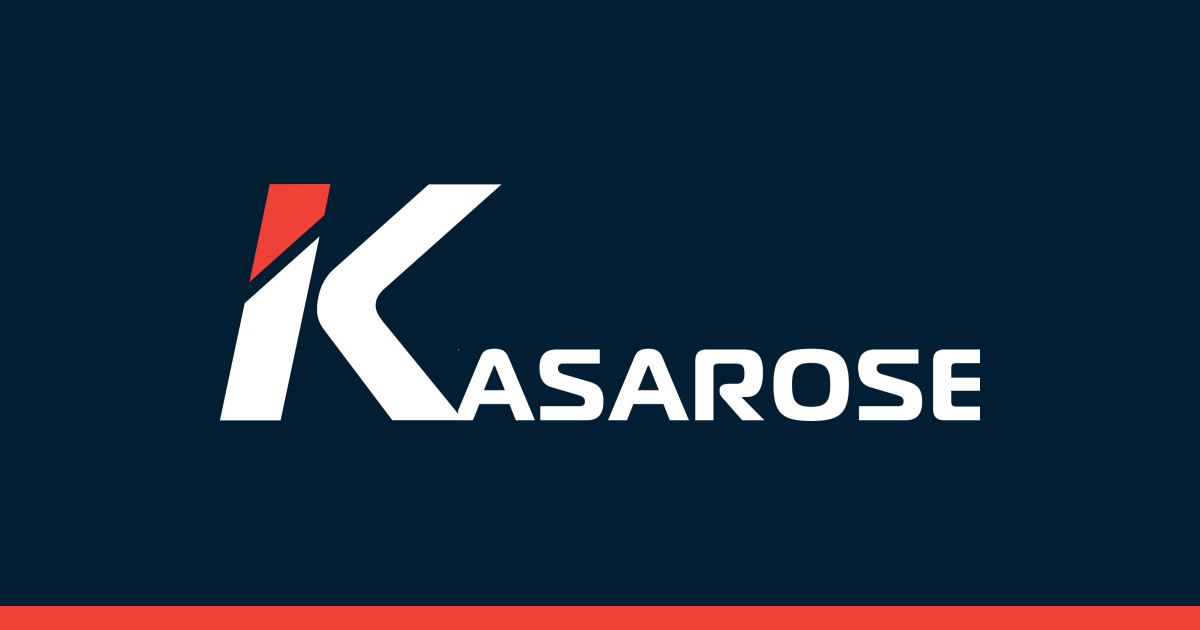
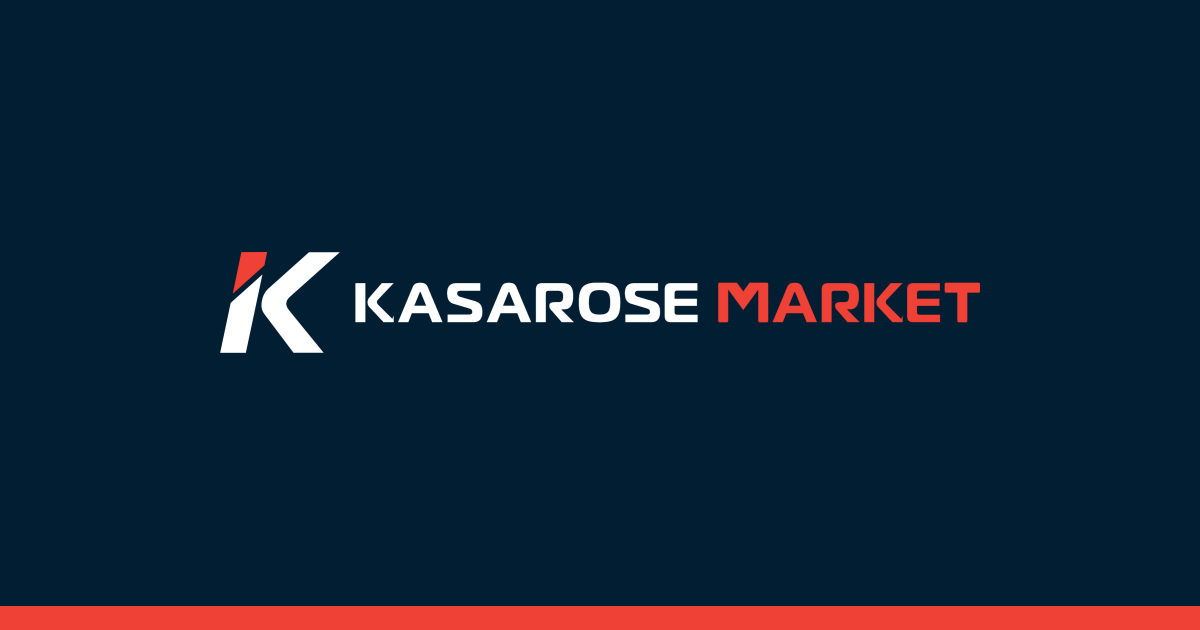
Use the KASAROSE MARKET lockup for storefront brand assets
brand:build now builds the lockups, OG card and on-dark variants from
the KASAROSE MARKET artwork (generated from the KASAROSE letterforms in
the KasaRose Website repo); the K mark is unchanged. Logo heights are
reduced to suit the wider lockup.

Changed region(s): [[0.185, 0.2714, 0.8325, 0.6937]]

diff --git a/app/Console/Commands/BuildBrandAssets.php b/app/Console/Commands/BuildBrandAssets.php
@@ -40,7 +40,11 @@ class BuildBrandAssets extends Command
         $brandOut = public_path('images/brand');
         $imageOut = public_path('images');
 
-        foreach (['kasa.png', 'kasarose.png', 'kasarose-2.png'] as $file) {
+        // The storefront is KASAROSE MARKET: its lockups come from the
+        // kasarosemarket-* files (generated in the KasaRose Website repo by
+        // tools/make-kasarosemarket-logo.py from the KASAROSE letterforms);
+        // the K mark is shared with the parent brand.
+        foreach (['kasa.png', 'kasarosemarket.png', 'kasarosemarket-2.png'] as $file) {
             if (! is_file("{$source}/{$file}")) {
                 $this->error("Missing source art: resources/brand/{$file}");
 
@@ -50,8 +54,8 @@ class BuildBrandAssets extends Command
 
         // libpng warns about the sRGB profile the source files carry; harmless here.
         $mark = $this->trimAlpha($this->loadPng("{$source}/kasa.png"));
-        $lockup = $this->trimAlpha($this->loadPng("{$source}/kasarose-2.png"));
-        $stacked = $this->trimAlpha($this->loadPng("{$source}/kasarose.png"));
+        $lockup = $this->trimAlpha($this->loadPng("{$source}/kasarosemarket-2.png"));
+        $stacked = $this->trimAlpha($this->loadPng("{$source}/kasarosemarket.png"));
 
         $this->save($this->resizeToWidth($mark, 512), "{$brandOut}/logo-mark.png");
         $this->save($this->reverseForDark($this->resizeToWidth($mark, 512)), "{$brandOut}/logo-mark-on-dark.png");

diff --git a/resources/views/storefront/partials/header.blade.php b/resources/views/storefront/partials/header.blade.php
@@ -49,7 +49,7 @@
             <a href="{{ route('storefront.home') }}" class="flex items-center shrink-0" aria-label="{{ config('app.name') }} home">
                 {{-- Mark alone below sm:, full lockup above — the wordmark is unreadable at phone widths. --}}
                 <img src="{{ asset('images/brand/logo-mark.png') }}" alt="{{ config('app.name') }}" class="sm:hidden h-8 w-auto" width="512" height="431">
-                <img src="{{ asset('images/brand/logo-lockup.png') }}" alt="{{ config('app.name') }}" class="hidden sm:block h-9 lg:h-10 w-auto" width="1200" height="375">
+                <img src="{{ asset('images/brand/logo-lockup.png') }}" alt="{{ config('app.name') }}" class="hidden sm:block h-7 lg:h-8 w-auto" width="1200" height="160">
             </a>
 
             <form

diff --git a/resources/views/storefront/partials/footer.blade.php b/resources/views/storefront/partials/footer.blade.php
@@ -35,7 +35,7 @@
             <div class="grid grid-cols-2 md:grid-cols-4 lg:grid-cols-6 gap-x-8 gap-y-10">
                 <div class="col-span-2">
                     <a href="{{ route('storefront.home') }}" class="inline-block mb-4">
-                        <img src="{{ asset('images/brand/logo-lockup-on-dark.png') }}" alt="{{ config('app.name') }}" class="h-10 w-auto">
+                        <img src="{{ asset('images/brand/logo-lockup-on-dark.png') }}" alt="{{ config('app.name') }}" class="h-8 w-auto" width="1200" height="160">
                     </a>
                     <p class="text-sm leading-relaxed max-w-sm mb-5">
                         A multi-vendor marketplace connecting local sellers with shoppers across Ghana, backed by the

diff --git a/resources/views/storefront/pages/group.blade.php b/resources/views/storefront/pages/group.blade.php
@@ -44,7 +44,7 @@
                     </p>
                 </div>
                 <x-storefront.ui.card class="bg-surface-muted">
-                    <img src="{{ asset('images/brand/logo-lockup.png') }}" alt="{{ config('app.name') }}" class="h-9 w-auto mb-4">
+                    <img src="{{ asset('images/brand/logo-lockup.png') }}" alt="{{ config('app.name') }}" class="h-6 w-auto mb-4">
                     <dl class="space-y-3 text-sm">
                         <div>
                             <dt class="text-xs uppercase tracking-wide text-muted mb-0.5">Role in the group</dt>

diff --git a/CLAUDE.md b/CLAUDE.md
@@ -26,8 +26,9 @@ LOGISTICS. Never name KasaBazaar on this site. Consequences:
   `kasa.png` (the K mark), `kasarose-2.png` (horizontal lockup) and `kasarose.png` (stacked lockup):
   marks, lockups, on-dark variants, `og-image.png`, every favicon size and `favicon.ico`. Always run the command
   rather than editing one size in isolation — they all derive from the same source files and drift apart otherwise.
-  The lockup artwork still reads "KASAROSE" (the group family mark); a MARKET-specific lockup needs new source art
-  from the designer. Palette: blue `#055F9C`, red `#EF4136`. See [DESIGN.md](DESIGN.md); the Tailwind token names
+  The lockups are built from `kasarosemarket.png` / `kasarosemarket-2.png`, which are generated in the KasaRose Website
+  repo by `tools/make-kasarosemarket-logo.py` (real KASAROSE letterforms, "MARKET" in red) — re-copy them from there
+  if that script changes. The original `kasarose*.png` files stay as the parent's source art. Palette: blue `#055F9C`, red `#EF4136`. See [DESIGN.md](DESIGN.md); the Tailwind token names
   still read `navy-*` for the blue scale, which is deliberate.
 
 ## Group of Companies — cross-site sync (IMPORTANT)
